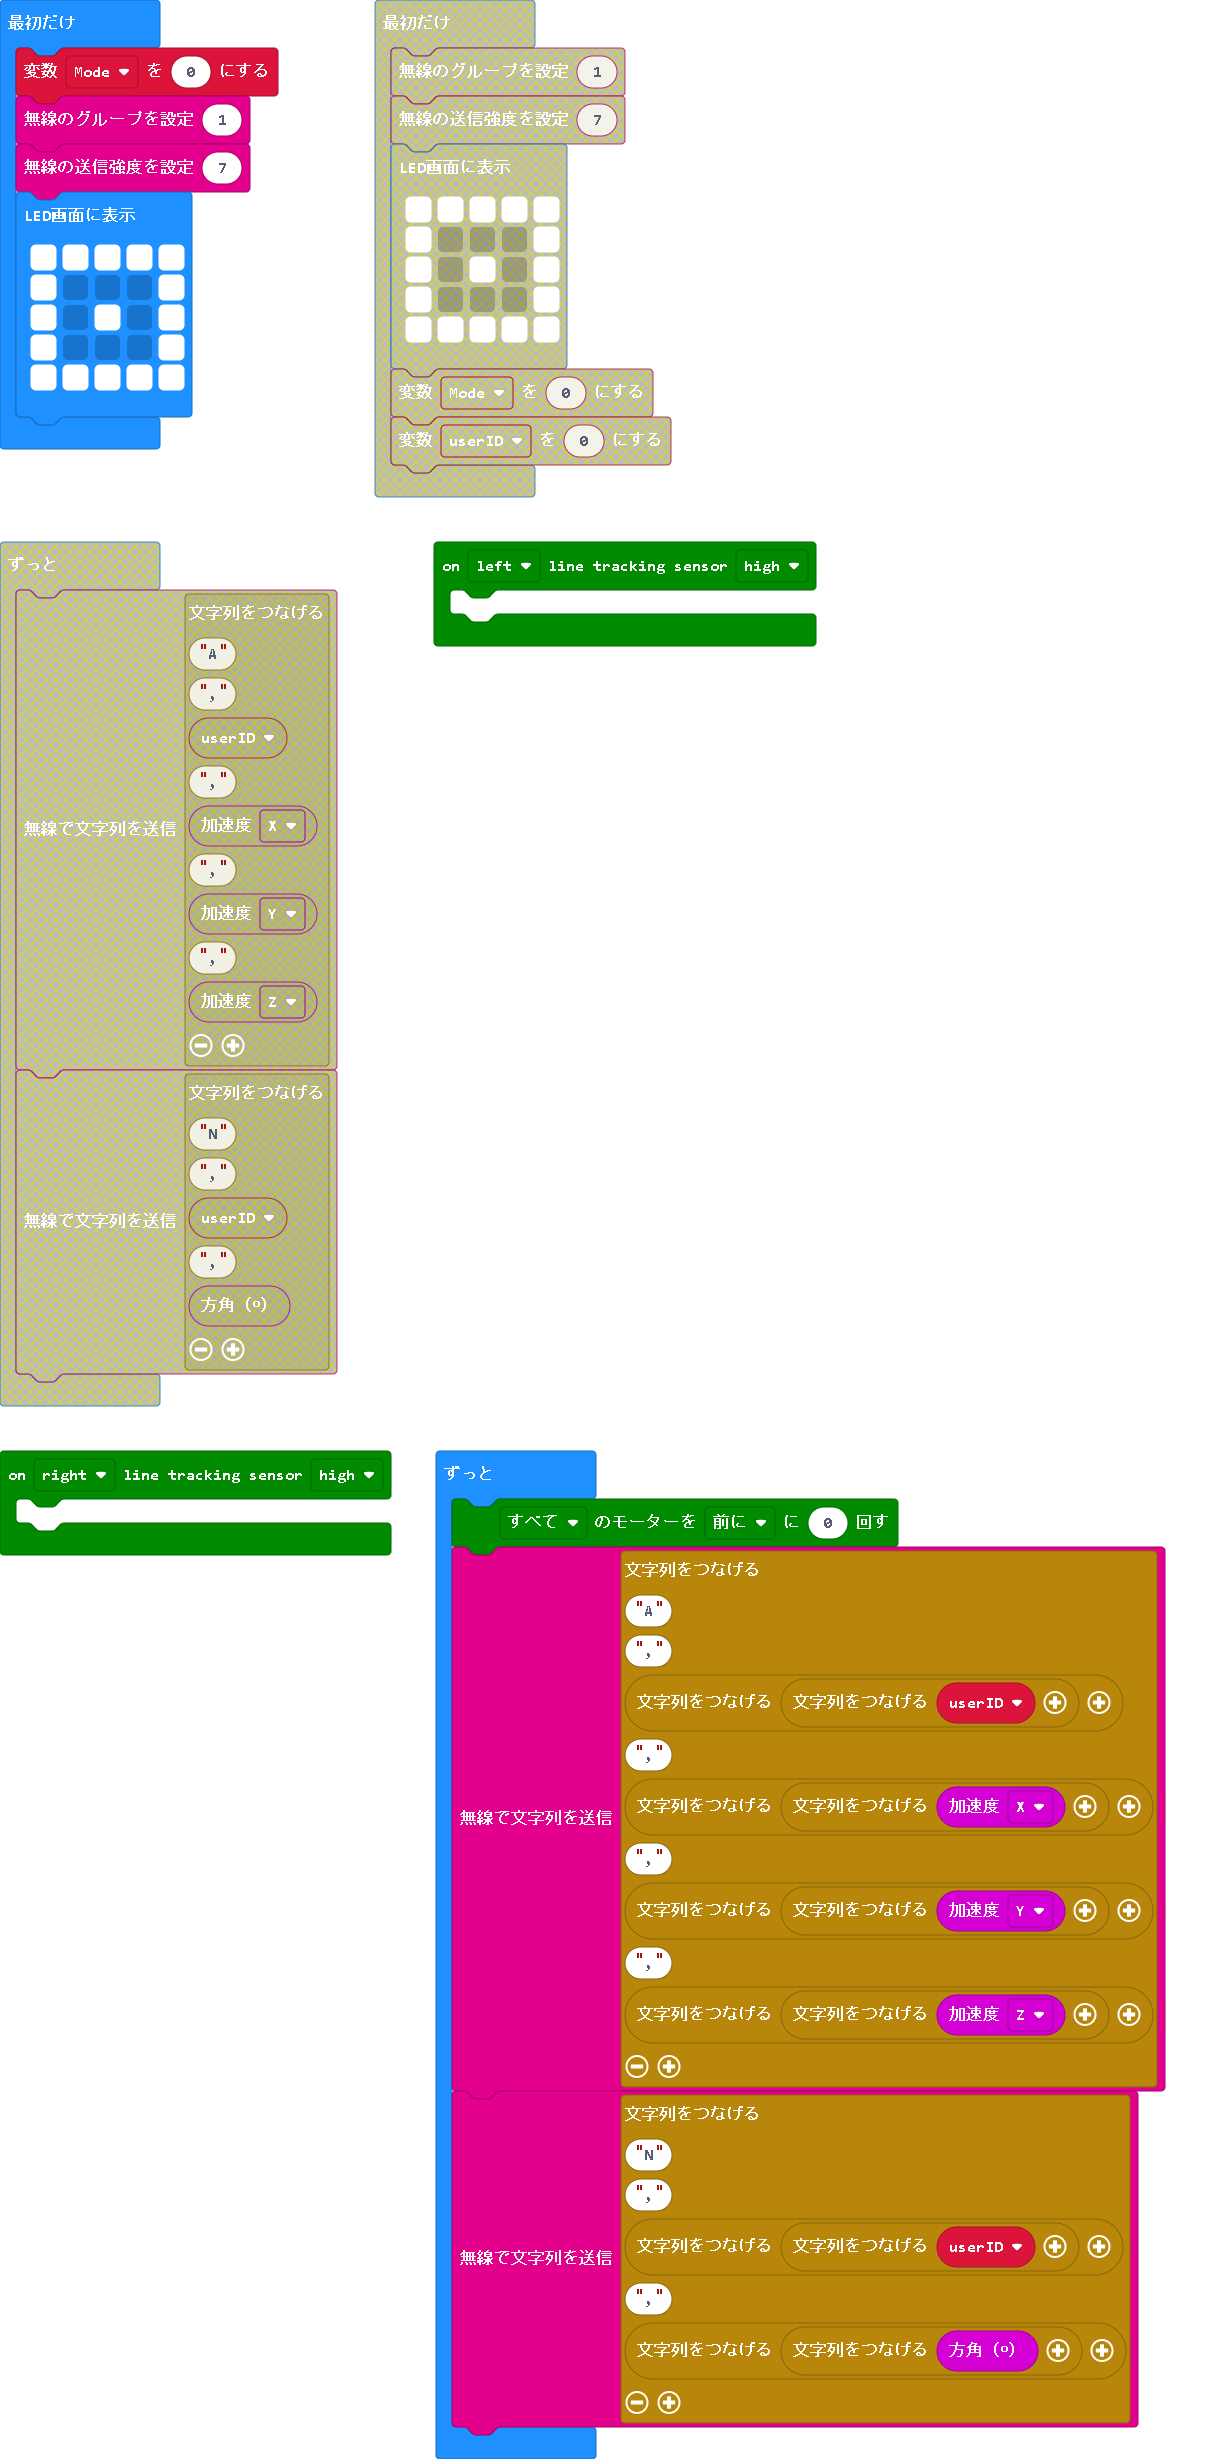
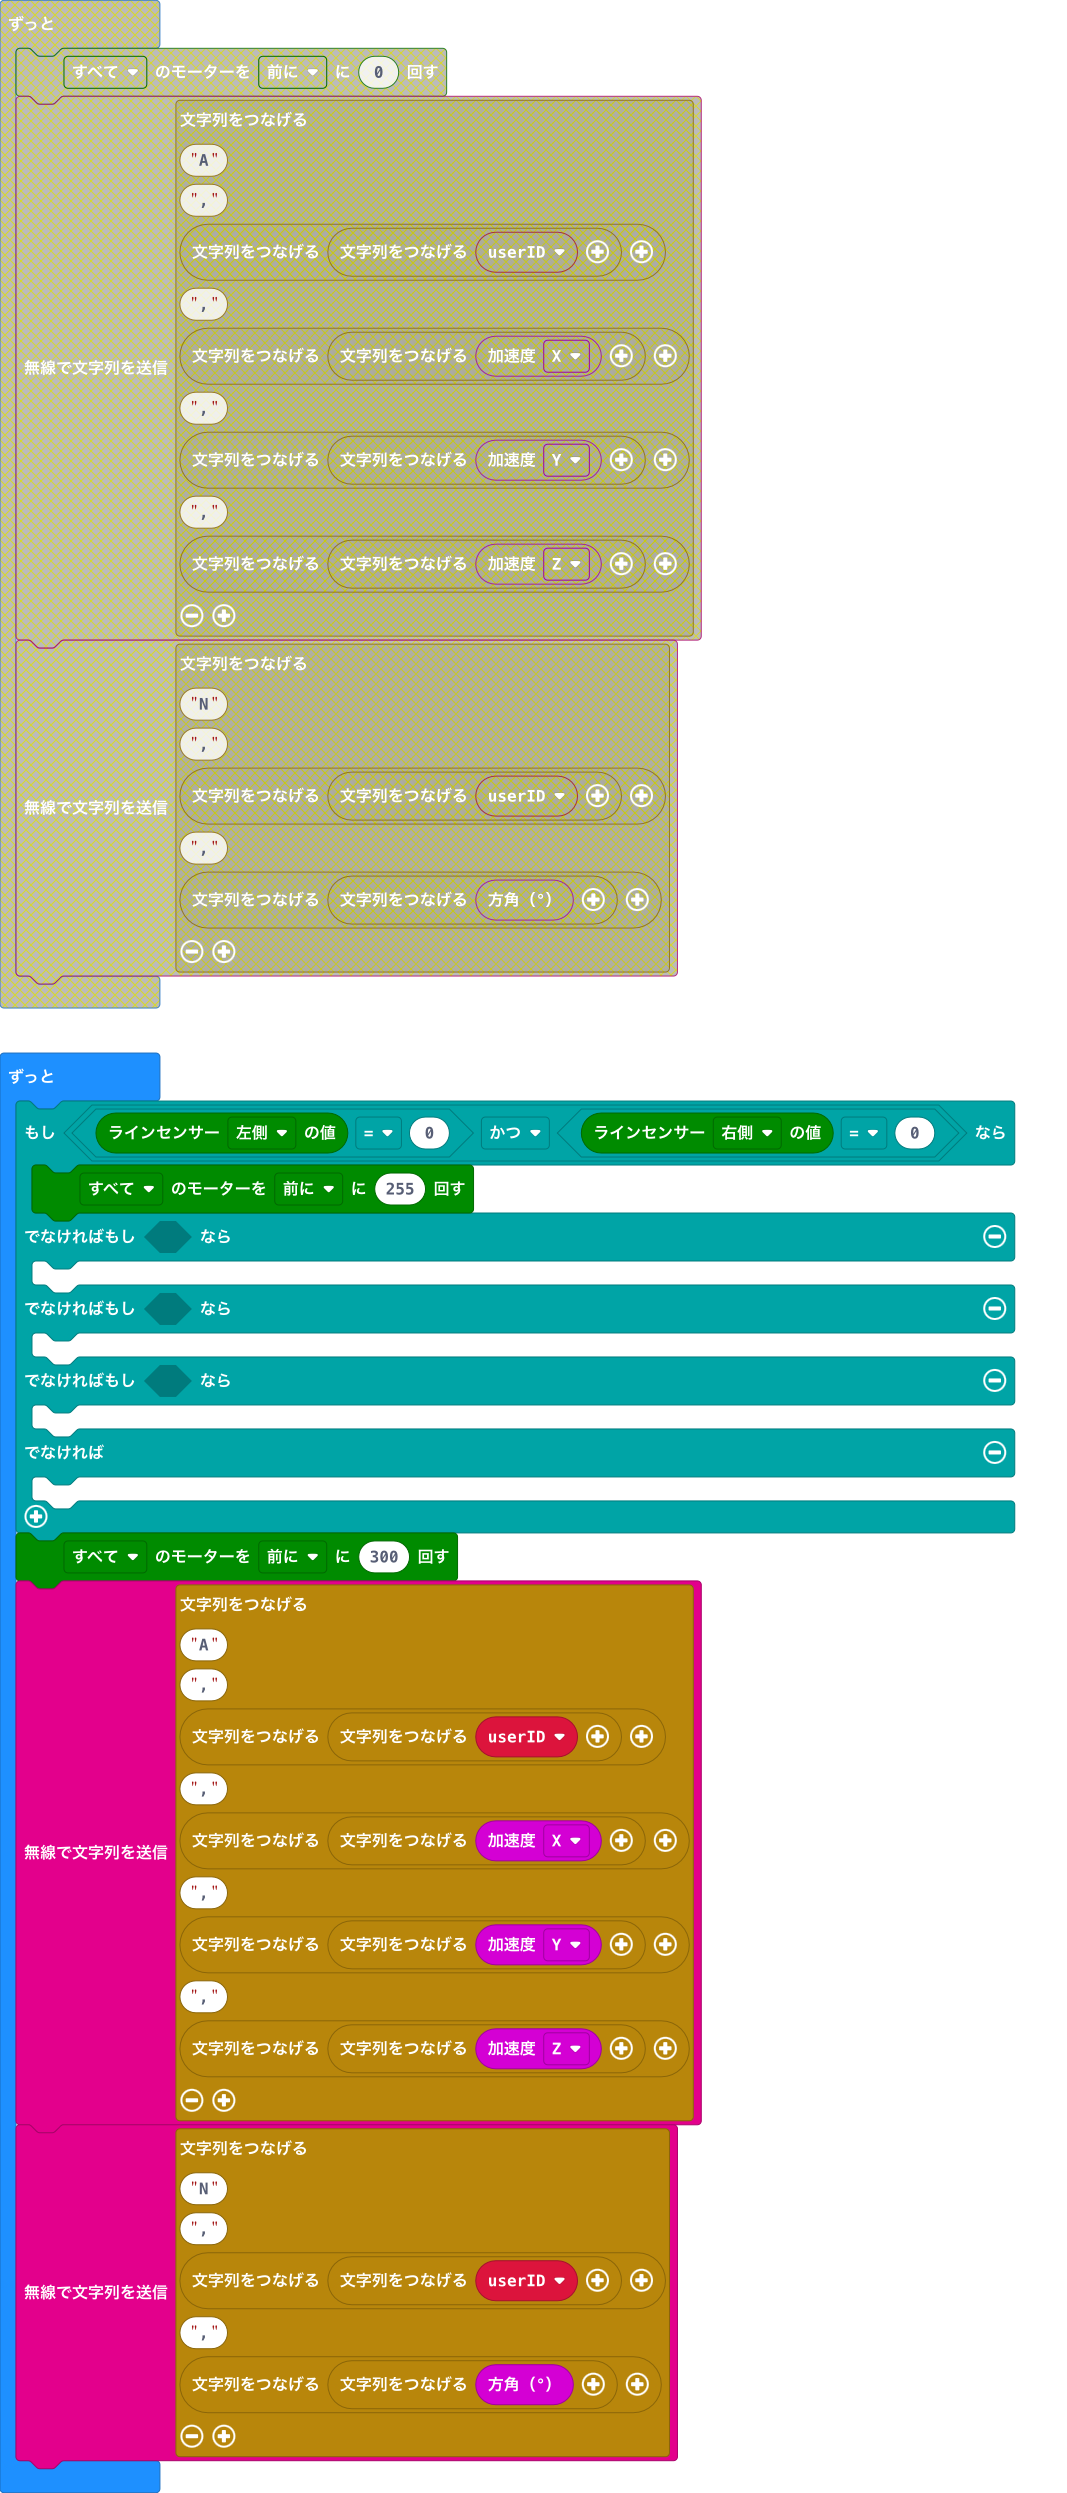
途中

diff --git a/main.ts b/main.ts
@@ -16,7 +16,18 @@ basic.showLeds(`
     `)
 basic.forever(function () {
     let userID = 0
-    maqueen.motorRun(maqueen.Motors.All, maqueen.Dir.CW, 0)
+    if (maqueen.readPatrol(maqueen.Patrol.PatrolLeft) == 0 && maqueen.readPatrol(maqueen.Patrol.PatrolRight) == 0) {
+        maqueen.motorRun(maqueen.Motors.All, maqueen.Dir.CW, 255)
+    } else if (false) {
+    	
+    } else if (false) {
+    	
+    } else if (false) {
+    	
+    } else {
+    	
+    }
+    maqueen.motorRun(maqueen.Motors.All, maqueen.Dir.CW, 300)
     radio.sendString("A" + "," + ("" + userID) + "," + ("" + input.acceleration(Dimension.X)) + "," + ("" + input.acceleration(Dimension.Y)) + "," + ("" + input.acceleration(Dimension.Z)))
     radio.sendString("N" + "," + ("" + userID) + "," + ("" + input.compassHeading()))
 })
